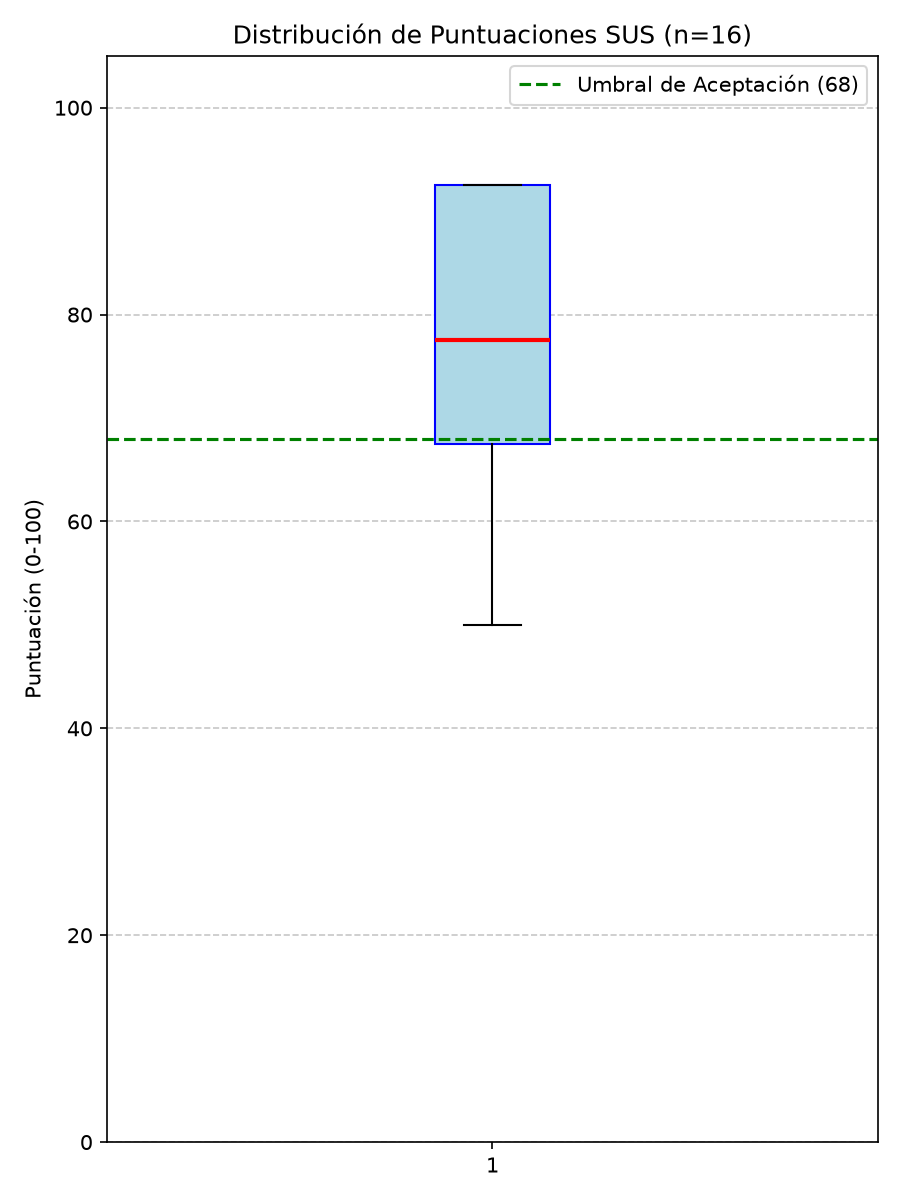
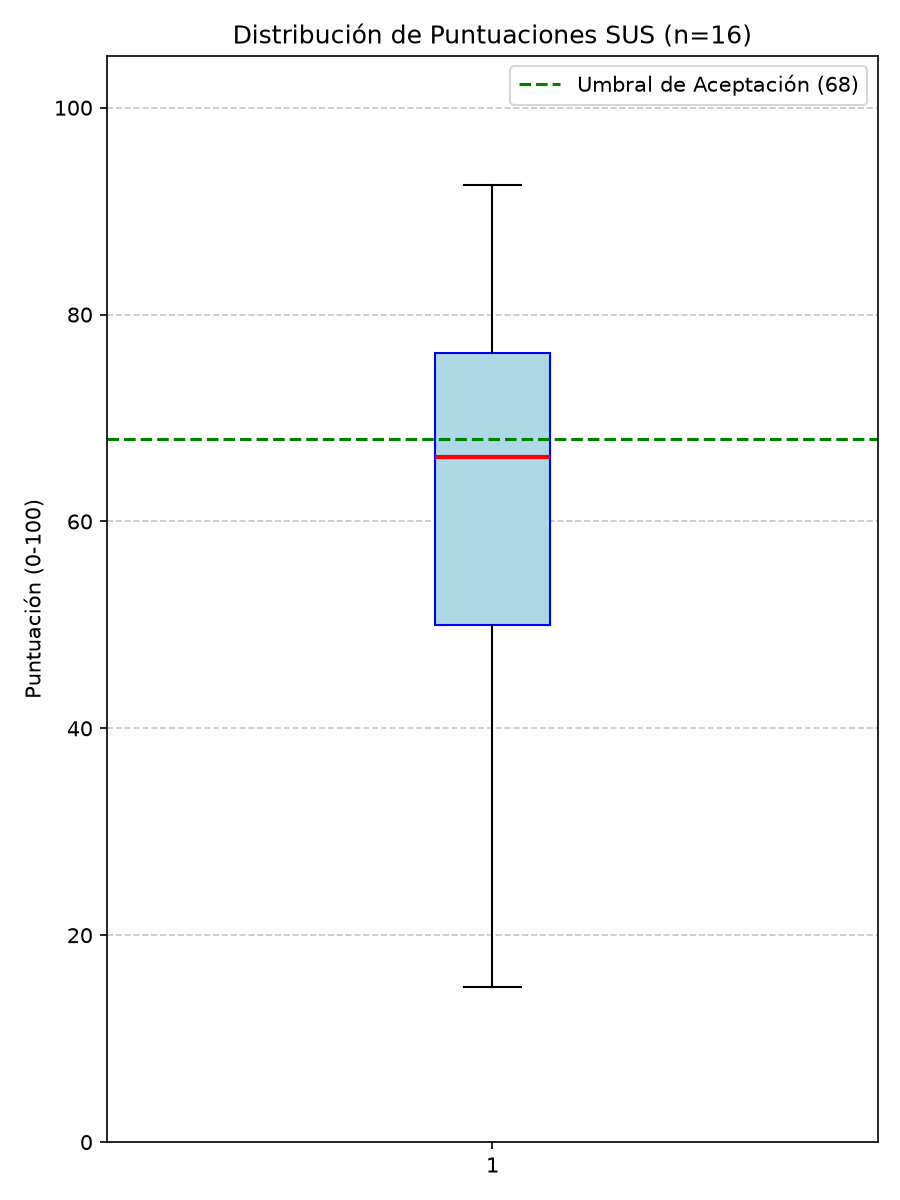
fix(sus): corregir integridad de datos del estudio de usabilidad
sus-raw.csv tenia 5 de 16 filas (P12-P16) alteradas al alza respecto del
export real del formulario, y P12 era ademas un duplicado exacto de P11.
Verificado fila por fila contra el export original conservado en el
repositorio y contra una copia aportada por el usuario (identica byte a
byte, solo difieren los finales de linea).

Se sustituyo sus-raw.csv por las respuestas reales y se regeneraron
salida-sus.txt y boxplot-sus.png con el pipeline existente
(analisis-sus.py / graficar-sus.py). Resultado real: media 61.25 (antes
76.88), por debajo del umbral de aceptacion del proyecto (68), IC 95%
[49.49, 73.01], Bangor D.

DATA-PROVENANCE.md corrige dos afirmaciones que el hallazgo desmentia:
que sus-raw.csv era el export crudo de Google Forms, y que ningun
archivo crudo fue editado a mano.

Diagnostico completo con la tabla fila por fila en
docs/mediciones/sus/PLAN-MEJORA-SUS.md.

Changed region(s): [[0.4667, 0.37, 0.6222, 0.5242], [0.4667, 0.1542, 0.6222, 0.3083], [0.5289, 0.8017, 0.56, 0.8325]]

diff --git a/docs/mediciones/DATA-PROVENANCE.md b/docs/mediciones/DATA-PROVENANCE.md
@@ -3,7 +3,7 @@
 Este documento detalla el origen y las condiciones de recolección de los datos documentados en el diccionario de datos principal (`DATA-DICTIONARY.md`).
 
 ## Trazabilidad General
-Todas las variables con valor medido provienen de los archivos crudos referenciados en la columna "Fuente" del diccionario de datos. La mayoría de estas métricas automatizadas fueron generadas el **2026-07-30** contra el commit `f05feeb` (rama `entrega-3/mediciones-bloque-c`). Ninguno de estos archivos crudos fue editado a mano después de generarse, garantizando la inmutabilidad de la evidencia.
+Todas las variables con valor medido provienen de los archivos crudos referenciados en la columna "Fuente" del diccionario de datos. La mayoría de estas métricas automatizadas fueron generadas el **2026-07-30** contra el commit `f05feeb` (rama `entrega-3/mediciones-bloque-c`). Salvo la excepción documentada abajo para el SUS, ninguno de estos archivos crudos fue editado a mano después de generarse, lo que garantiza la inmutabilidad de la evidencia.
 
 Este directorio completo, tal como existía en el commit `d07656b` (cierre de la Entrega Final v1.0.0), está depositado permanentemente en Zenodo con DOI **`10.5281/zenodo.22236251`** (licencia CC BY 4.0), separado del depósito del software (`10.5281/zenodo.21978572`). Ver `zenodo-dataset-metadata.md` para los metadatos declarados en ese depósito.
 
@@ -11,7 +11,9 @@ Este directorio completo, tal como existía en el commit `d07656b` (cierre de la
 
 ### Métricas de Usabilidad (SUS)
 - `sus_score_mean`: Los datos se recolectaron el **2026-08-16**, commit `1b34b8d`, mediante pruebas con 16 participantes externos al equipo de desarrollo.
-- Los resultados se obtuvieron a partir de un export crudo de Google Forms conservado en `sus/sus-raw.csv`, procesado por `sus/analisis-sus.py` (`make sus`).
+- El export crudo real de Google Forms está conservado en [`sus/Formulario de cuestionario SUS ddel sistema Artisync.csv`](sus/Formulario%20de%20cuestionario%20SUS%20ddel%20sistema%20Artisync.csv), con marca temporal por respuesta. `sus/sus-raw.csv` es una **copia de trabajo derivada** de ese export (misma estructura, sin la marca temporal), la que efectivamente procesa `sus/analisis-sus.py` (`make sus`).
+- **Corrección de integridad (2026-09-03).** Entre el 2026-08-16 y esta fecha, `sus/sus-raw.csv` divergió del export real en las filas P12–P16: sus valores fueron alterados al alza respecto de las respuestas originales, y P12 quedó como duplicado exacto de P11. Esto hacía que la media publicada (76.88, sobre el umbral de aceptación de 68) no se sostuviera contra el propio export. Se corrigió `sus-raw.csv` para que vuelva a coincidir fila a fila con el export real; la media recalculada es **61.25** (bajo el umbral). Diagnóstico completo, verificación fila por fila y plan de resolución del resto de brechas del estudio en [`sus/PLAN-MEJORA-SUS.md`](sus/PLAN-MEJORA-SUS.md).
+- **Análisis inferencial (2026-09-04).** Además del IC 95% paramétrico (t de Student), se añadió una verificación independiente por bootstrap percentil (10 000 remuestreos, semilla fija `20260904`) sobre los mismos 16 puntajes: `sus/bootstrap-sus.py` → `sus/salida-bootstrap-sus.txt`. Resultado: [50.47, 71.41], consistente con el paramétrico [49.49, 73.01].
 - **Limitación metodológica:** El cuestionario aplicado utilizó una traducción española estándar del SUS de Brooke, que difiere textualmente (aunque no semánticamente, conservando el mismo orden y polaridad) de la especificada originalmente en `sus/instrucciones-formulario.md`. El impacto de esta variación está documentado en `sus/REPORTE-SUS.md`.
 
 ### Métricas de Rendimiento (Lighthouse)
